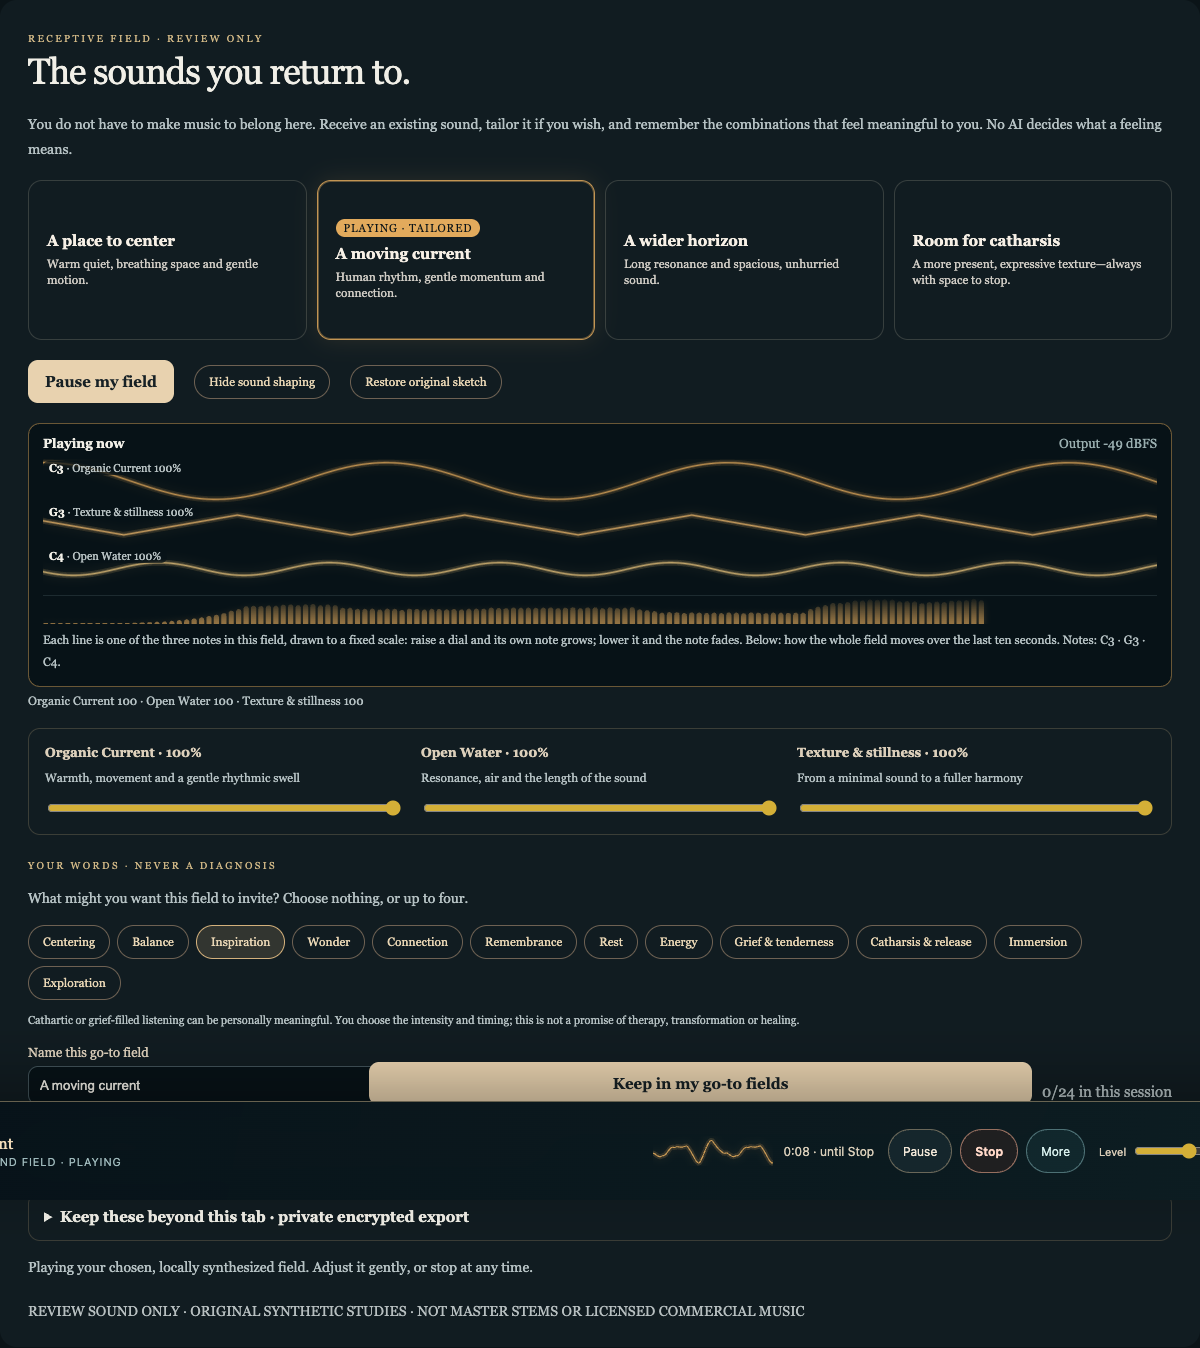
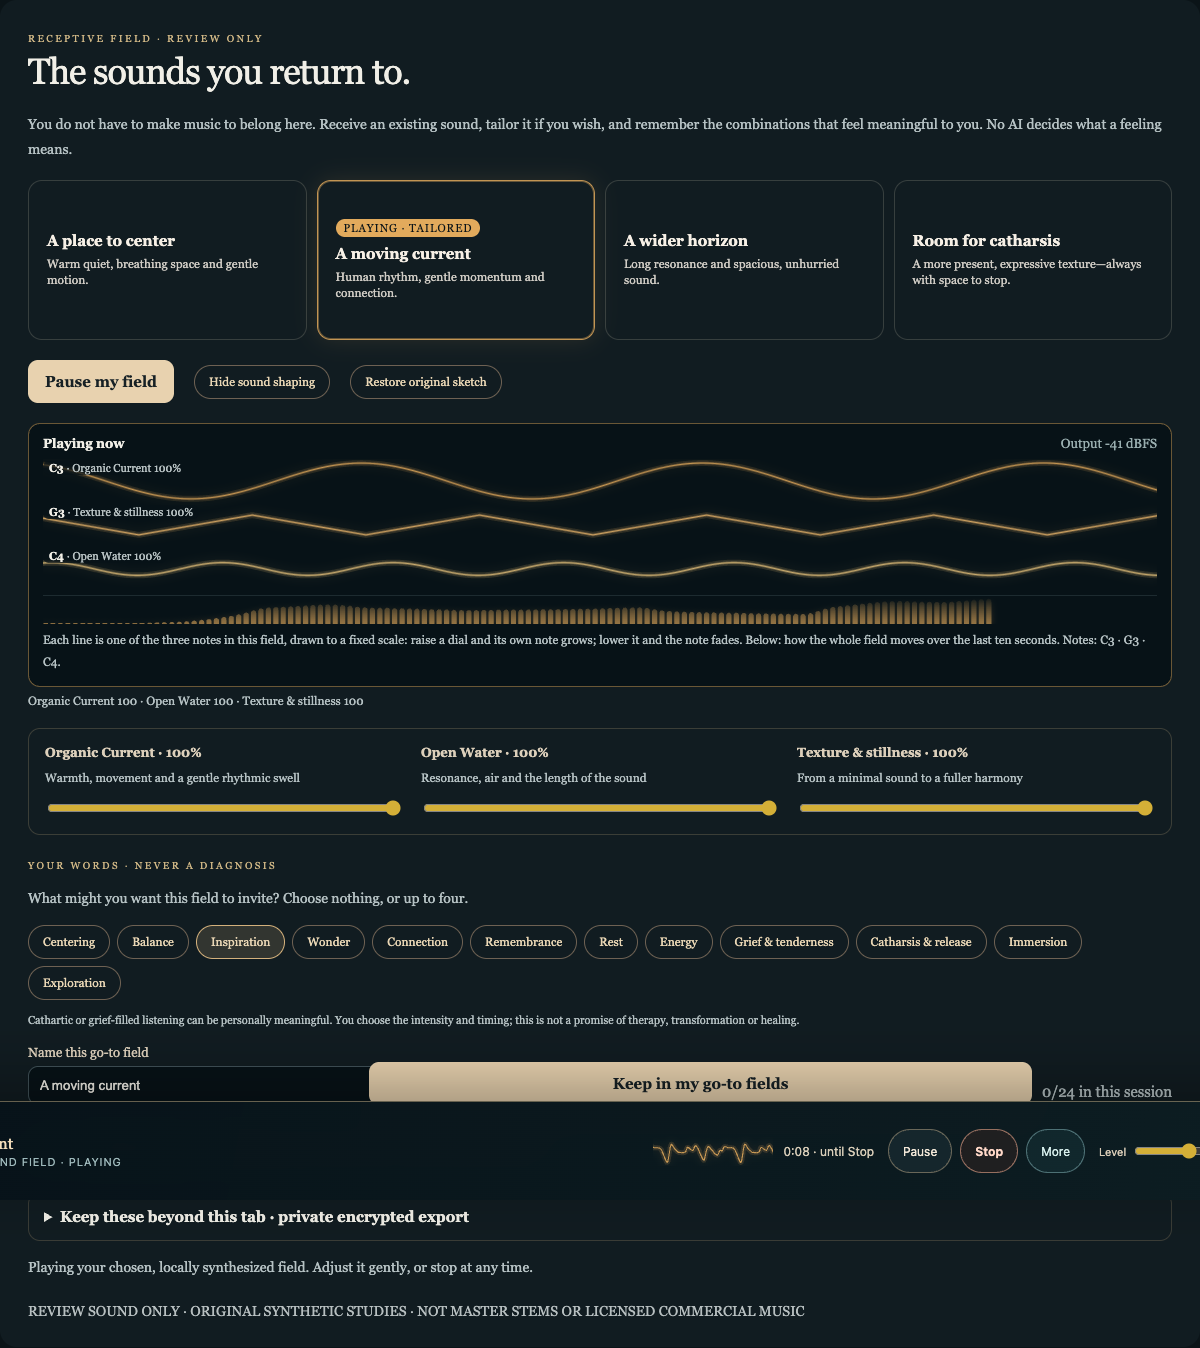
feat(listen): soft overtones so speakers can carry the Shelf sketch (#1979)
Founder ruling 2026-11-19, after a listening A/B: "I like the overtones option!",
then "Yes, at 100%".

The sketch's notes are 82-262 Hz, which laptop and phone speakers barely play.
Each note now carries quiet partials at exact whole-number multiples of its own
pitch (2x to 8x, each 1/n^2 as loud, detune-locked), so they blend into the same
tone and never change the pitch. They pass a soft 2.4 kHz low-pass and the one
master, so the member's Level governs them. They follow their note's dial and
the swell, and Open Water brightens them. The level ceiling
(GENERATED_OUTPUT_SCALE) is unchanged, and Focus Field soundscapes are untouched.

Measured from the real player at Level 45% (The Blue Hour): -45.9 LUFS overall
and -53.1 LUFS above ~300 Hz, up from -53.8 and below -69. This matches the A/B
the founder heard.

Tests: shelf_live_view witness 52/52; new shelf_dial_pops witness 8/8 in Chrome
and Playwright WebKit 26.0 (its detection limit is stated in its header); the
listening suite has the same 173 pass and the same 6 pre-existing failures; no
type errors in the provider. The Shelf contract is updated.

Changed region(s): [[0.0308, 0.3116, 0.9558, 0.4674], [0.555, 0.8412, 0.6475, 0.8724]]

diff --git a/components/listening/PersistentListeningProvider.tsx b/components/listening/PersistentListeningProvider.tsx
@@ -104,6 +104,8 @@ type Sketch = {
   /** Soundscape output bus, and the stream tap that lets a media element carry the sound at screen lock. */
   out?: GainNode;
   stream?: MediaStreamAudioDestinationNode;
+  /** The synthetic sketch's soft overtones (founder ruling 2026-11-19, #1979): one follower per voice, a soft filter. */
+  overtones?: { voices: GainNode[]; soft: BiquadFilterNode; oscillators: OscillatorNode[] };
 };
 
 export type ListeningTransport = {
@@ -230,7 +232,7 @@ function endSketch(sketch: Sketch | null): void {
 function endSketchNow(sketch: Sketch): void {
   try { sketch.soundscape?.dispose(); } catch {}
   try { sketch.master.gain.setValueAtTime(0, sketch.context.currentTime); } catch {}
-  for (const osc of [...sketch.oscillators,sketch.movement]) {
+  for (const osc of [...sketch.oscillators,sketch.movement,...(sketch.overtones?.oscillators ?? [])]) {
     try { osc.stop(); } catch {}
   }
   void sketch.context.close().catch(() => undefined);
@@ -248,14 +250,50 @@ function endSketchNow(sketch: Sketch): void {
 function applyReceptiveShape(sketch: Sketch, shape: ReceptiveControls) {
   const t=sketch.context.currentTime;
   const gently=(parameter:AudioParam,value:number)=>parameter.setTargetAtTime(value,t,0.13);
-  gently(sketch.voices[0].gain,0.24*(0.5+shape.pulse/100));
-  gently(sketch.voices[1].gain,0.14*(0.5+shape.density/100));
-  gently(sketch.voices[2].gain,0.09*(0.5+shape.space/100));
+  const levels=[0.24*(0.5+shape.pulse/100),0.14*(0.5+shape.density/100),0.09*(0.5+shape.space/100)];
+  levels.forEach((level,index)=>{
+    gently(sketch.voices[index].gain,level);
+    if(sketch.overtones?.voices[index]) gently(sketch.overtones.voices[index].gain,level); // overtones follow their note's dial
+  });
   gently(sketch.filter.frequency,660+(shape.space-50)*5);
+  if(sketch.overtones) gently(sketch.overtones.soft.frequency,2400+(shape.space-50)*30); // Open Water also brightens them
   // Only AFTER the artist-sketch neutral 50 does a gentle periodic pulse enter.
   // It stays comfortably below the oscillator's always-positive baseline gain.
   gently(sketch.movementDepth.gain,Math.max(0,shape.pulse-50)/50*0.032);
   gently(sketch.movement.frequency,0.55+shape.pulse/100*0.55);
+}
+
+/** Soft overtones for the synthetic sketch (founder ruling 2026-11-19, #1979: "I like the overtones option!",
+ * then "Yes, at 100%", after a listening A/B recorded at #1979 comment 7021180314).
+ * The sketch's notes are 82–262 Hz, which laptop and phone speakers barely play. Each note gains quiet partials
+ * at exact whole-number multiples of its own pitch (2× … 8×, each 1/n² as loud, locked to the note's detune),
+ * so they fuse into the same tone instead of adding notes. They pass a soft low-pass and the ONE master, so
+ * the member's Level governs them, and they follow their note's dial and the swell. The level ceiling
+ * (GENERATED_OUTPUT_SCALE) is unchanged. Measured at Level 45%: content above ~300 Hz rises from below −69 LUFS
+ * to about −58…−52 LUFS; the whole sound rises about 6–8 dB. */
+const OVERTONE_PARTIALS = [2, 3, 4, 5, 6, 7, 8];
+const OVERTONE_BUS_GAIN = 6.0; // "Amount 100%" in the listening test
+const OVERTONE_HIGHEST_HZ = 4000;
+function newSketchOvertones(
+  context: AudioContext, master: GainNode, frequencies: number[], notes: OscillatorNode[],
+): NonNullable<Sketch['overtones']> {
+  const bus = context.createGain(); bus.gain.value = OVERTONE_BUS_GAIN;
+  const soft = context.createBiquadFilter(); soft.type = 'lowpass'; soft.frequency.value = 2400; soft.Q.value = 0.5;
+  soft.connect(bus); bus.connect(master);
+  const oscillators: OscillatorNode[] = [];
+  const voices = frequencies.map((frequency, index) => {
+    const follower = context.createGain(); follower.gain.value = 0; follower.connect(soft);
+    for (const n of OVERTONE_PARTIALS) {
+      if (frequency * n > OVERTONE_HIGHEST_HZ) continue;
+      const osc = context.createOscillator(); osc.type = 'sine';
+      osc.frequency.value = frequency * n; osc.detune.value = notes[index].detune.value;
+      const partial = context.createGain(); partial.gain.value = 1 / (n * n);
+      osc.connect(partial); partial.connect(follower); osc.start();
+      oscillators.push(osc);
+    }
+    return follower;
+  });
+  return { voices, soft, oscillators };
 }
 
 function newSketch(
@@ -297,7 +335,9 @@ function newSketch(
   movement.connect(movementDepth);
   movementDepth.connect(voices[0].gain); // modulation, NOT extra direct audio output
   movement.start();
-  const sketch={context,oscillators,master,voices,filter,movement,movementDepth,mood,frequencies};
+  const overtones=newSketchOvertones(context,master,frequencies,oscillators);
+  movementDepth.connect(overtones.voices[0].gain); // the lowest note's overtones swell with it
+  const sketch:Sketch={context,oscillators,master,voices,filter,movement,movementDepth,mood,frequencies,overtones};
   applyReceptiveShape(sketch,shape);
   return sketch;
 }

diff --git a/docs/design/contracts/sound-studio-shelf.md b/docs/design/contracts/sound-studio-shelf.md
@@ -30,8 +30,12 @@ experience_verification: >
   rate (192 kHz on the founder's Mac), about 6.5 cycles of C4. Tailoring marks the card "tailored". Paused, the view says Paused and goes flat. An audio-graph edge
   log shows the taps add exactly four edges (the output and its three voices, each from a gain node into an
   analyser), that no analyser feeds anything, and that only one
-  path reaches the speakers. No overflow, no page errors and no outside requests. Measured in the same run: "A
-  wider horizon" plays at about −53 to −55 dBFS RMS at the default level. The fixture mirrors the app shell's
+  path reaches the speakers. No overflow, no page errors and no outside requests. Before the overtones, "A
+  wider horizon" played at about −53 to −55 dBFS RMS at the default level. Re-run after the overtones: still 52/52.
+  Overtones (2026-11-19): captured from the real player at Level 45%, The Blue Hour measures −45.9 LUFS overall
+  and −53.1 LUFS above ~300 Hz (before: −53.8 and below −69). This matches the listening A/B the founder approved
+  (#1979 comment 7021180314). tests/listening/shelf_dial_pops_browser_witness.cjs, in local Chrome and Playwright
+  WebKit 26.0, finds no clicks while each dial moves. The fixture mirrors the app shell's
   button reset, which it does not load. This is a fixture witness, not an authenticated walk of /listen and not
   the founder's listening.
 ---
@@ -47,6 +51,7 @@ A member wants to receive a generated sound field, shape it if they wish, and ke
 - **Each field has its own colour.** Lavender for A place to center, amber for A moving current, sea for A wider horizon, and rose for Room for catharsis. The chosen card and its live view take that colour; with no card chosen the view stays in house gold. The lines are soft, with a blurred halo under a thin line, rather than severe (founder, 2026-11-19).
 - **They can see the three notes.** Each field is three notes, and each dial shapes one of them: Organic Current the lowest (and its swell above 50), Texture & stillness the middle, Open Water the top (and the shared filter). The live view draws one lane per note on one FIXED scale (the loudest a voice can be), so raising any dial, or all three, always grows its note on screen, labelled with its note and dial, so moving a dial visibly grows or fades its own note (founder, 2026-11-19). Each lane shows a fixed 25 ms of time, whatever the device's sample rate.
 - **They know which card is sounding.** The chosen card is marked Chosen, then Playing, then "tailored" once a dial moves away from the card's own setting.
+- **Speakers can carry it.** Each note carries soft overtones: quiet copies at exact whole-number multiples of its own pitch (2× to 8×), so they blend into the same tone and never add a note or change the pitch. They follow their note's dial and swell, Open Water brightens them, and the one Level governs them. This is how laptop and phone speakers, which barely play the low notes themselves, carry the field (founder, 2026-11-19: "I like the overtones option!", then "Yes, at 100%").
 - **Seeing changes nothing.** The view reads the one player's output through a tap that feeds nothing. It does not change the sound, its level or its notes, and it adds no control to the player bar.
 
 ## What the Shelf never does
@@ -54,5 +59,5 @@ A member wants to receive a generated sound field, shape it if they wish, and ke
 - Change the sound in order to show it.
 
 ## Known, not addressed here
-- The fields are very quiet by design (about −53 dBFS RMS at the default level) and low in pitch, so built-in laptop speakers barely carry them. Headphones do. A fix changes the sound and needs its own decision.
-- The founder hears small pops while moving the sliders (2026-11-19). This is not yet attributed.
+- The fields stay quiet overall: about −46 LUFS at the default level, against about −14 to −16 for typical music. The level ceiling (GENERATED_OUTPUT_SCALE, 0.027) has no recorded reason and is unchanged. Raising it is a separate decision, and it would also change Focus Field soundscapes and every member's remembered level.
+- Small pops while moving the sliders (founder, 2026-11-19) were not reproduced in Chrome (48 and 192 kHz) or WebKit, and the founder later heard them gone. Real Safari through real speakers is covered only by the founder's ear. The pops script detects clicks reliably only for Organic Current, because the shared filter rounds the others off.
